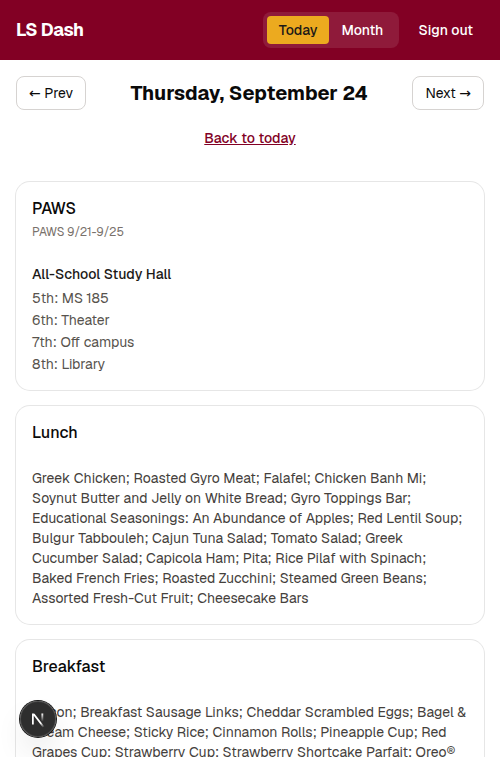
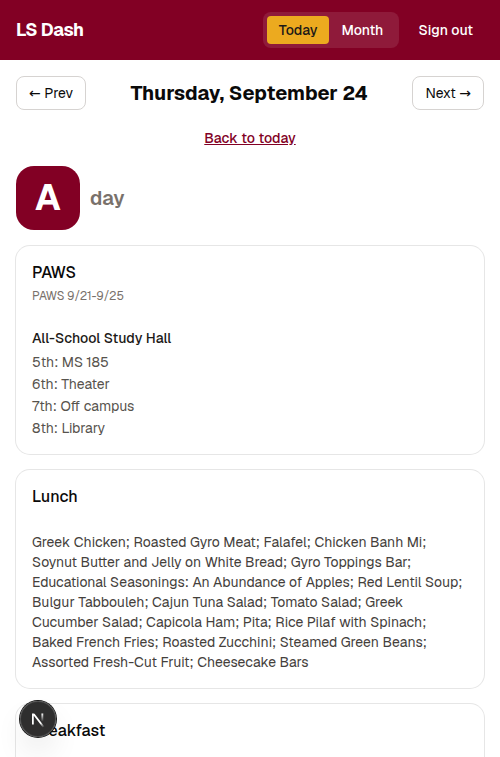
Seed real ABC rotation for 9/14-25 from the live feed fixture
Implemented With: T3 Code via muse-spark-1.3-contributor-free on opencode

Changed region(s): [[0.06, 0.6077, 0.93, 1.0], [0.03, 0.2127, 0.36, 0.5773]]

diff --git a/scripts/seed.ts b/scripts/seed.ts
@@ -83,15 +83,17 @@ function schoolDay(
   id: string,
   dow: string,
   menus: { lunch: Record<string, unknown>; breakfast: Record<string, unknown> },
+  abc: { letter: "A" | "B" | "C"; uid: string },
   paws: { title: string; details: string[] } | null,
   sageWeek: string,
 ) {
   return {
-    date: id, dow, abc: null, isSpecial: false, specialLabel: null,
+    date: id, dow, abc: abc.letter, isSpecial: false, specialLabel: null,
     isNoSchool: false, noSchoolLabel: null,
     lunch: menus.lunch, breakfast: menus.breakfast,
     paws: paws ? { ...paws, week: PAWS_WEEK } : null,
-    sources: { icalUid: null, sageWeek }, updatedAt: admin.firestore.FieldValue.serverTimestamp(),
+    sources: { icalUid: `${abc.uid}@www.example-school.org`, sageWeek },
+    updatedAt: admin.firestore.FieldValue.serverTimestamp(),
   };
 }
 
@@ -296,15 +298,13 @@ async function main(): Promise<void> {
       sources: { icalUid: "12485798@www.example-school.org", sageWeek: "09/06/2026" }, updatedAt: stamp,
     },
     // Mon 09-14: LIVE Sage week of 09/14/2026 (fetched 2026-09-14, extractor
-    // output verbatim). The month overview must show the Main Ingredient
+    // output verbatim) + MS B day from the live calendar_436.ics feed
+    // (UID 12485804). The month overview must show the Main Ingredient
     // station entrée ("Chicken Tenders"), not Entrées[0]
-    // ("Honey-Glazed Ham"). ABC is null: the school feed URL is a placeholder
-    // in local dev, so no ABC rotation is verifiable offline — a school day
-    // with good Sage service and no ABC is an established pattern (see
-    // mergeDay's 2026-09-03 case). No single-day Daily probe was run for
+    // ("Honey-Glazed Ham"). No single-day Daily probe was run for
     // 09-14, so breakfast.daily is [].
     "2026-09-14": {
-      date: "2026-09-14", dow: "Mon", abc: null, isSpecial: false, specialLabel: null,
+      date: "2026-09-14", dow: "Mon", abc: "B", isSpecial: false, specialLabel: null,
       isNoSchool: false, noSchoolLabel: null,
       lunch: {
         entree: "Honey-Glazed Ham", special: "Chicken Finger Dipping Bar", feature: null,
@@ -338,20 +338,22 @@ async function main(): Promise<void> {
         all: ["Bacon", "Turkey Bacon", "Western Scrambled Eggs", "Bagel & Cream Cheese", "Sticky Rice", "Cinnamon Rolls", "Croissants", "Pineapple Cup", "Red Grapes Cup", "Strawberry Cup", "S'mores Pudding Parfait", "Strawberry Shortcake Parfait"],
         daily: [],
       },
-      sources: { icalUid: null, sageWeek: "09/14/2026" }, updatedAt: stamp,
+      sources: { icalUid: "12485804@www.example-school.org", sageWeek: "09/14/2026" }, updatedAt: stamp,
     },
-    // Tue 09-15 – Fri 09-18: LIVE Sage menus above; ABC unverifiable offline.
-    "2026-09-15": schoolDay("2026-09-15", "Tue", LIVE_MENUS["2026-09-15"], null, "09/14/2026"),
-    "2026-09-16": schoolDay("2026-09-16", "Wed", LIVE_MENUS["2026-09-16"], null, "09/14/2026"),
-    "2026-09-17": schoolDay("2026-09-17", "Thu", LIVE_MENUS["2026-09-17"], null, "09/14/2026"),
-    "2026-09-18": schoolDay("2026-09-18", "Fri", LIVE_MENUS["2026-09-18"], null, "09/14/2026"),
-    // Mon 09-21 – Fri 09-25: PAWS week. Menus are the LIVE Sage week above;
-    // schedule is the hand-supplied table (also mirrored in overrides/paws).
-    "2026-09-21": schoolDay("2026-09-21", "Mon", LIVE_MENUS["2026-09-21"], PAWS_0921_0925["2026-09-21"], "09/21/2026"),
-    "2026-09-22": schoolDay("2026-09-22", "Tue", LIVE_MENUS["2026-09-22"], PAWS_0921_0925["2026-09-22"], "09/21/2026"),
-    "2026-09-23": schoolDay("2026-09-23", "Wed", LIVE_MENUS["2026-09-23"], PAWS_0921_0925["2026-09-23"], "09/21/2026"),
-    "2026-09-24": schoolDay("2026-09-24", "Thu", LIVE_MENUS["2026-09-24"], PAWS_0921_0925["2026-09-24"], "09/21/2026"),
-    "2026-09-25": schoolDay("2026-09-25", "Fri", LIVE_MENUS["2026-09-25"], PAWS_0921_0925["2026-09-25"], "09/21/2026"),
+    // Tue 09-15 – Fri 09-18: LIVE Sage menus above; ABC + UIDs from the
+    // live calendar_436.ics feed (same source as the 09-08 HAR docs).
+    "2026-09-15": schoolDay("2026-09-15", "Tue", LIVE_MENUS["2026-09-15"], { letter: "C", uid: "12485806" }, null, "09/14/2026"),
+    "2026-09-16": schoolDay("2026-09-16", "Wed", LIVE_MENUS["2026-09-16"], { letter: "A", uid: "12485808" }, null, "09/14/2026"),
+    "2026-09-17": schoolDay("2026-09-17", "Thu", LIVE_MENUS["2026-09-17"], { letter: "B", uid: "12485810" }, null, "09/14/2026"),
+    "2026-09-18": schoolDay("2026-09-18", "Fri", LIVE_MENUS["2026-09-18"], { letter: "C", uid: "12485814" }, null, "09/14/2026"),
+    // Mon 09-21 – Fri 09-25: PAWS week. Menus are the LIVE Sage week above,
+    // ABC + UIDs from the live feed; schedule is the hand-supplied table
+    // (also mirrored in overrides/paws).
+    "2026-09-21": schoolDay("2026-09-21", "Mon", LIVE_MENUS["2026-09-21"], { letter: "A", uid: "12485818" }, PAWS_0921_0925["2026-09-21"], "09/21/2026"),
+    "2026-09-22": schoolDay("2026-09-22", "Tue", LIVE_MENUS["2026-09-22"], { letter: "B", uid: "12485821" }, PAWS_0921_0925["2026-09-22"], "09/21/2026"),
+    "2026-09-23": schoolDay("2026-09-23", "Wed", LIVE_MENUS["2026-09-23"], { letter: "C", uid: "12485824" }, PAWS_0921_0925["2026-09-23"], "09/21/2026"),
+    "2026-09-24": schoolDay("2026-09-24", "Thu", LIVE_MENUS["2026-09-24"], { letter: "A", uid: "12485826" }, PAWS_0921_0925["2026-09-24"], "09/21/2026"),
+    "2026-09-25": schoolDay("2026-09-25", "Fri", LIVE_MENUS["2026-09-25"], { letter: "B", uid: "12485830" }, PAWS_0921_0925["2026-09-25"], "09/21/2026"),
     // Sat 09-12: SYNTHETIC weekend doc — must never be navigable/rendered.
     "2026-09-12": {
       date: "2026-09-12", dow: "Sat", abc: null, isSpecial: false, specialLabel: null,
